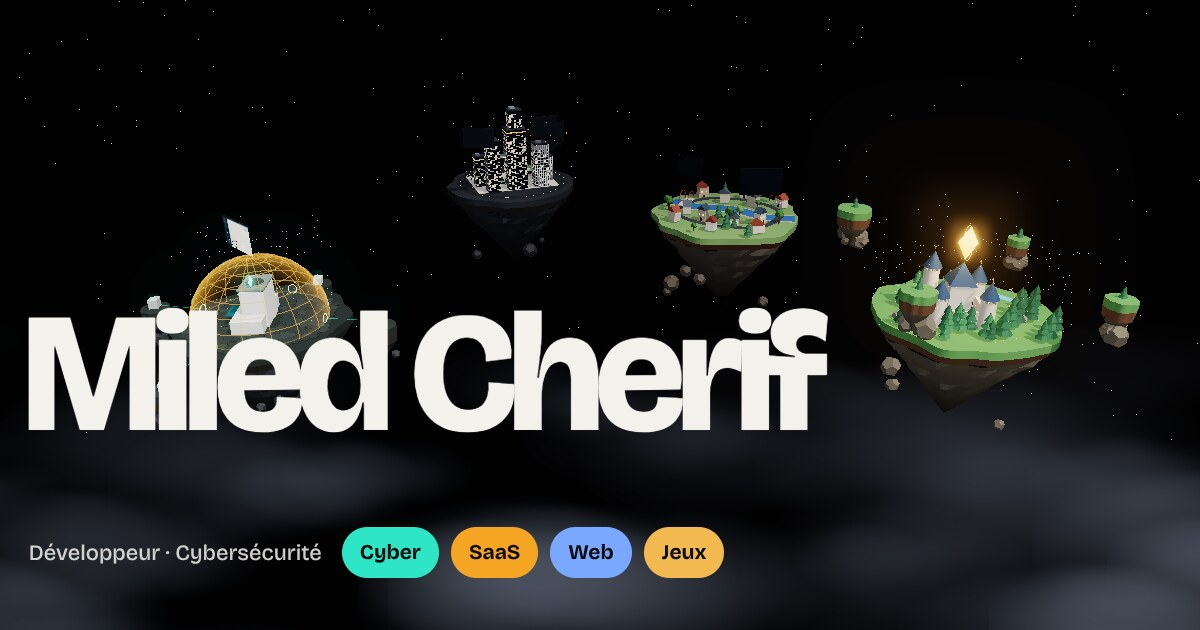
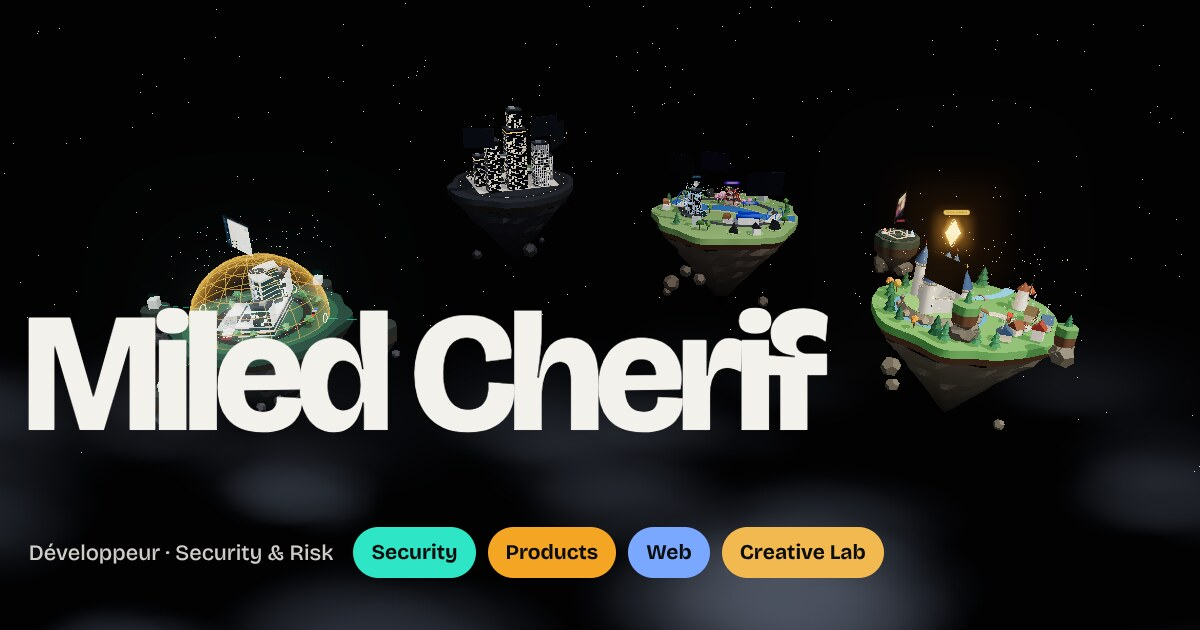
Nouvelles catégories : Security & Risk, Products & Platforms, Web Experiences, Creative Lab
Claude-Session: https://claude.ai/code/session_01L3nyWcuyDWxBXmQRwG8fpC

diff --git a/src/projects.js b/src/projects.js
@@ -6,8 +6,8 @@ const c = (p, f) => `${import.meta.env.BASE_URL}captures/${p}/${f}.webp`;
 export const zones = [
   {
     id: 'cyber',
-    title: 'Cybersécurité',
-    tagline: 'Analyste programmeur à l’Hôpital Montfort.',
+    title: 'Security & Risk',
+    tagline: 'Gouvernance, risque et conformité en milieu hospitalier.',
     text:
       'Je conçois les outils qui protègent les données de santé, et je travaille avec les équipes sur les analyses PIA (vie privée) et TRA (menaces et risques) des fournisseurs.',
     ground: '#062a2e', ink: '#eef7f5', accent: '#2ee6c5', onAccent: '#04201f',
@@ -15,25 +15,25 @@ export const zones = [
   },
   {
     id: 'saas',
-    title: 'Produits SaaS',
-    tagline: 'Des outils métier pensés pour les équipes.',
+    title: 'Products & Platforms',
+    tagline: 'Des plateformes métier complètes, pensées pour les équipes.',
     text: 'Tableaux de bord, pipelines commerciaux, suivi de campagnes : des applications complètes, de la base de données à l’interface.',
     ground: '#161b24', ink: '#f2efe9', accent: '#f5a524', onAccent: '#1a1206',
     projects: ['tracktarget'],
   },
   {
     id: 'web',
-    title: 'Sites web',
-    tagline: 'Des plateformes en ligne, pour de vrais clients.',
+    title: 'Web Experiences',
+    tagline: 'Des expériences en ligne soignées, pour de vrais utilisateurs.',
     text: 'Marketplaces, applications communautaires, sites vitrines : des expériences web soignées, bilingues et prêtes pour la production.',
     ground: '#e9f0fb', ink: '#0f172a', accent: '#2563eb', onAccent: '#ffffff',
     projects: ['yourmove', 'ninjawatch', 'starryone'],
   },
   {
     id: 'games',
-    title: 'Jeux',
-    tagline: 'Là où je m’amuse le plus.',
-    text: 'Un RPG en 3D dans le navigateur, un roguelite de pirates et un MOBA sur Roblox : des mondes, des règles et des histoires.',
+    title: 'Creative Lab',
+    tagline: 'Mon terrain d’expérimentation.',
+    text: 'Jeux, mondes 3D et projets créatifs : un RPG dans le navigateur, un roguelite de pirates, un MOBA sur Roblox, et tout ce que j’ai envie d’explorer.',
     ground: '#10261a', ink: '#f4efe1', accent: '#f2b950', onAccent: '#1c1405',
     projects: ['aldera', 'pavillon', 'royalog'],
   },

diff --git a/src/projects.en.js b/src/projects.en.js
@@ -1,9 +1,9 @@
 // Version anglaise : remplace les champs textuels de projects.js.
 export const zonesEn = {
-  cyber: { title: 'Cybersecurity', tagline: 'Programmer analyst at Hôpital Montfort.', text: 'I design the tools that protect health data, and I work with the teams on vendor PIA (privacy) and TRA (threat and risk) assessments.' },
-  saas: { title: 'SaaS products', tagline: 'Business tools built for teams.', text: 'Dashboards, sales pipelines, campaign tracking: complete applications, from the database to the interface.' },
-  web: { title: 'Websites', tagline: 'Online platforms, for real clients.', text: 'Marketplaces, community apps, showcase sites: polished web experiences, bilingual and production-ready.' },
-  games: { title: 'Games', tagline: 'Where I have the most fun.', text: 'A 3D RPG in the browser, a pirate roguelite and a MOBA on Roblox: worlds, rules and stories.' },
+  cyber: { title: 'Security & Risk', tagline: 'Governance, risk and compliance in a hospital setting.', text: 'I design the tools that protect health data, and I work with the teams on vendor PIA (privacy) and TRA (threat and risk) assessments.' },
+  saas: { title: 'Products & Platforms', tagline: 'Complete business platforms, built for teams.', text: 'Dashboards, sales pipelines, campaign tracking: complete applications, from the database to the interface.' },
+  web: { title: 'Web Experiences', tagline: 'Polished online experiences, for real users.', text: 'Marketplaces, community apps, showcase sites: polished web experiences, bilingual and production-ready.' },
+  games: { title: 'Creative Lab', tagline: 'My playground for experiments.', text: 'Games, 3D worlds and creative projects: an RPG in the browser, a pirate roguelite, a MOBA on Roblox, and whatever I feel like exploring next.' },
 };
 
 export const projectsEn = {

diff --git a/index.html b/index.html
@@ -37,10 +37,10 @@
   <header class="bar">
     <a href="#top" class="wordmark">Miled Cherif</a>
     <nav aria-label="Univers">
-      <a href="#cyber" data-i18n="nav-cyber">Cybersécurité</a>
-      <a href="#saas">SaaS</a>
-      <a href="#web">Web</a>
-      <a href="#games" data-i18n="nav-games">Jeux</a>
+      <a href="#cyber">Security &amp; Risk</a>
+      <a href="#saas">Products &amp; Platforms</a>
+      <a href="#web">Web Experiences</a>
+      <a href="#games">Creative Lab</a>
     </nav>
     <a class="lang" href="?lang=en" hreflang="en" lang="en" aria-label="English version"><span>EN</span></a>
     <a class="bar-action" href="#contact">Contact</a>

diff --git a/src/i18n.js b/src/i18n.js
@@ -19,8 +19,6 @@ export function switchLang() {
 const staticEn = {
   title: 'Miled Cherif — Developer and cybersecurity analyst',
   description: 'Miled Cherif builds security platforms for Hôpital Montfort, business SaaS products, websites and games.',
-  'nav-games': 'Games',
-  'nav-cyber': 'Cybersecurity',
   'hero-text': 'Developer and programmer analyst in cybersecurity at Hôpital Montfort. I build security platforms, business SaaS products, websites and games.',
   'hero-cta': 'Visit the four worlds',
   'contact-title': 'A project to build or to secure?',
